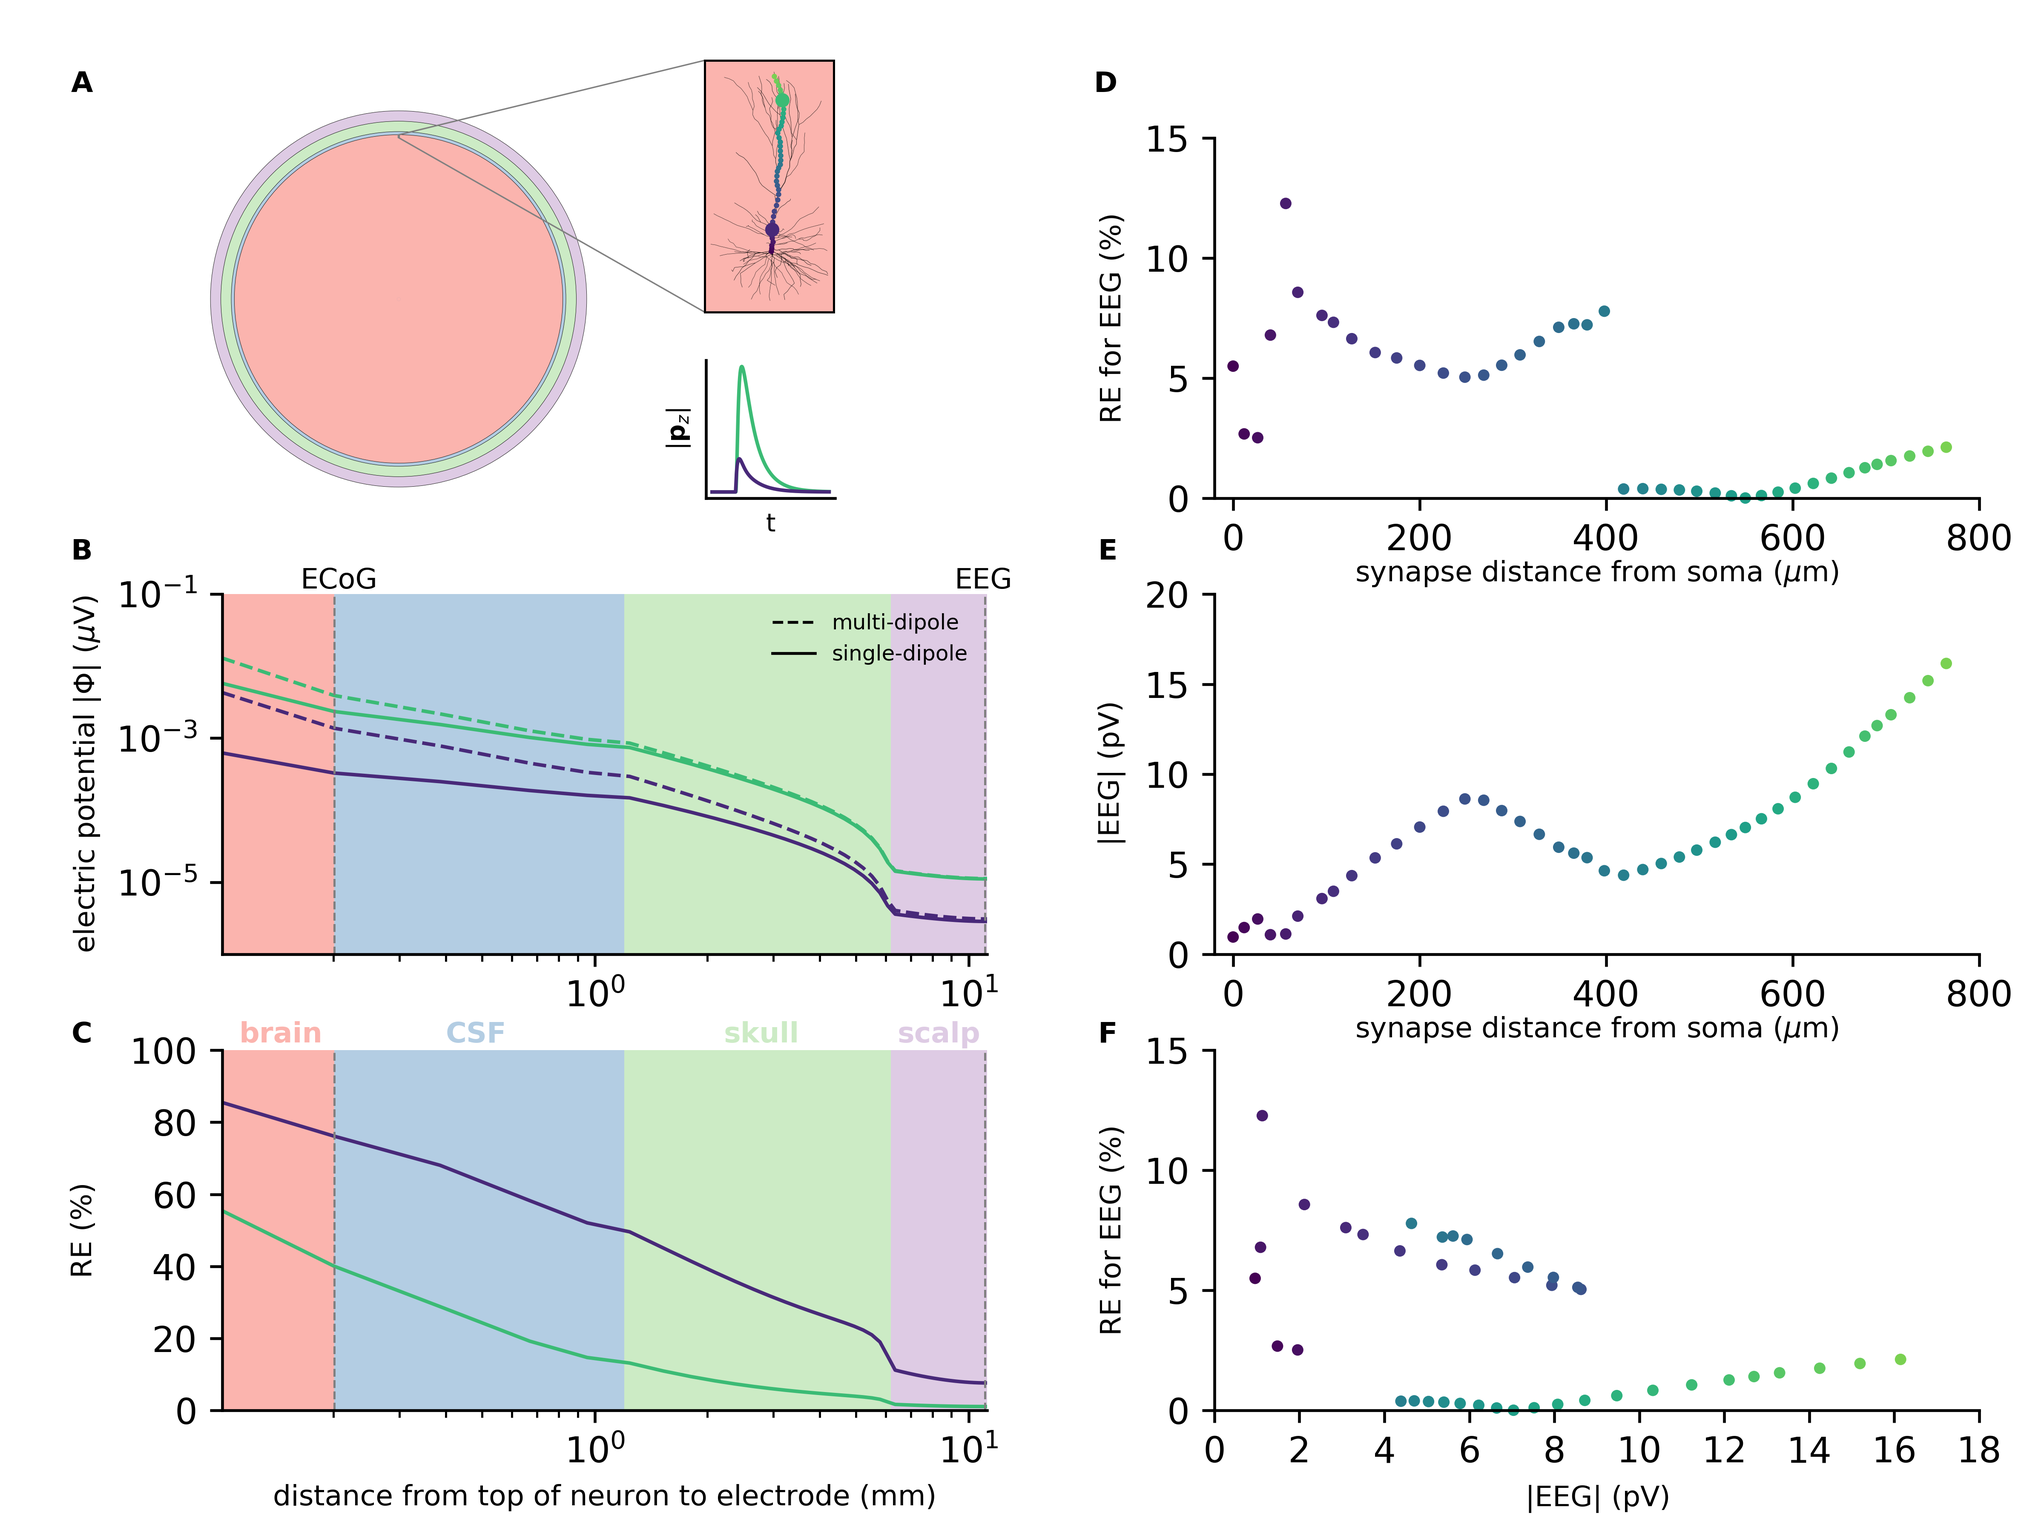
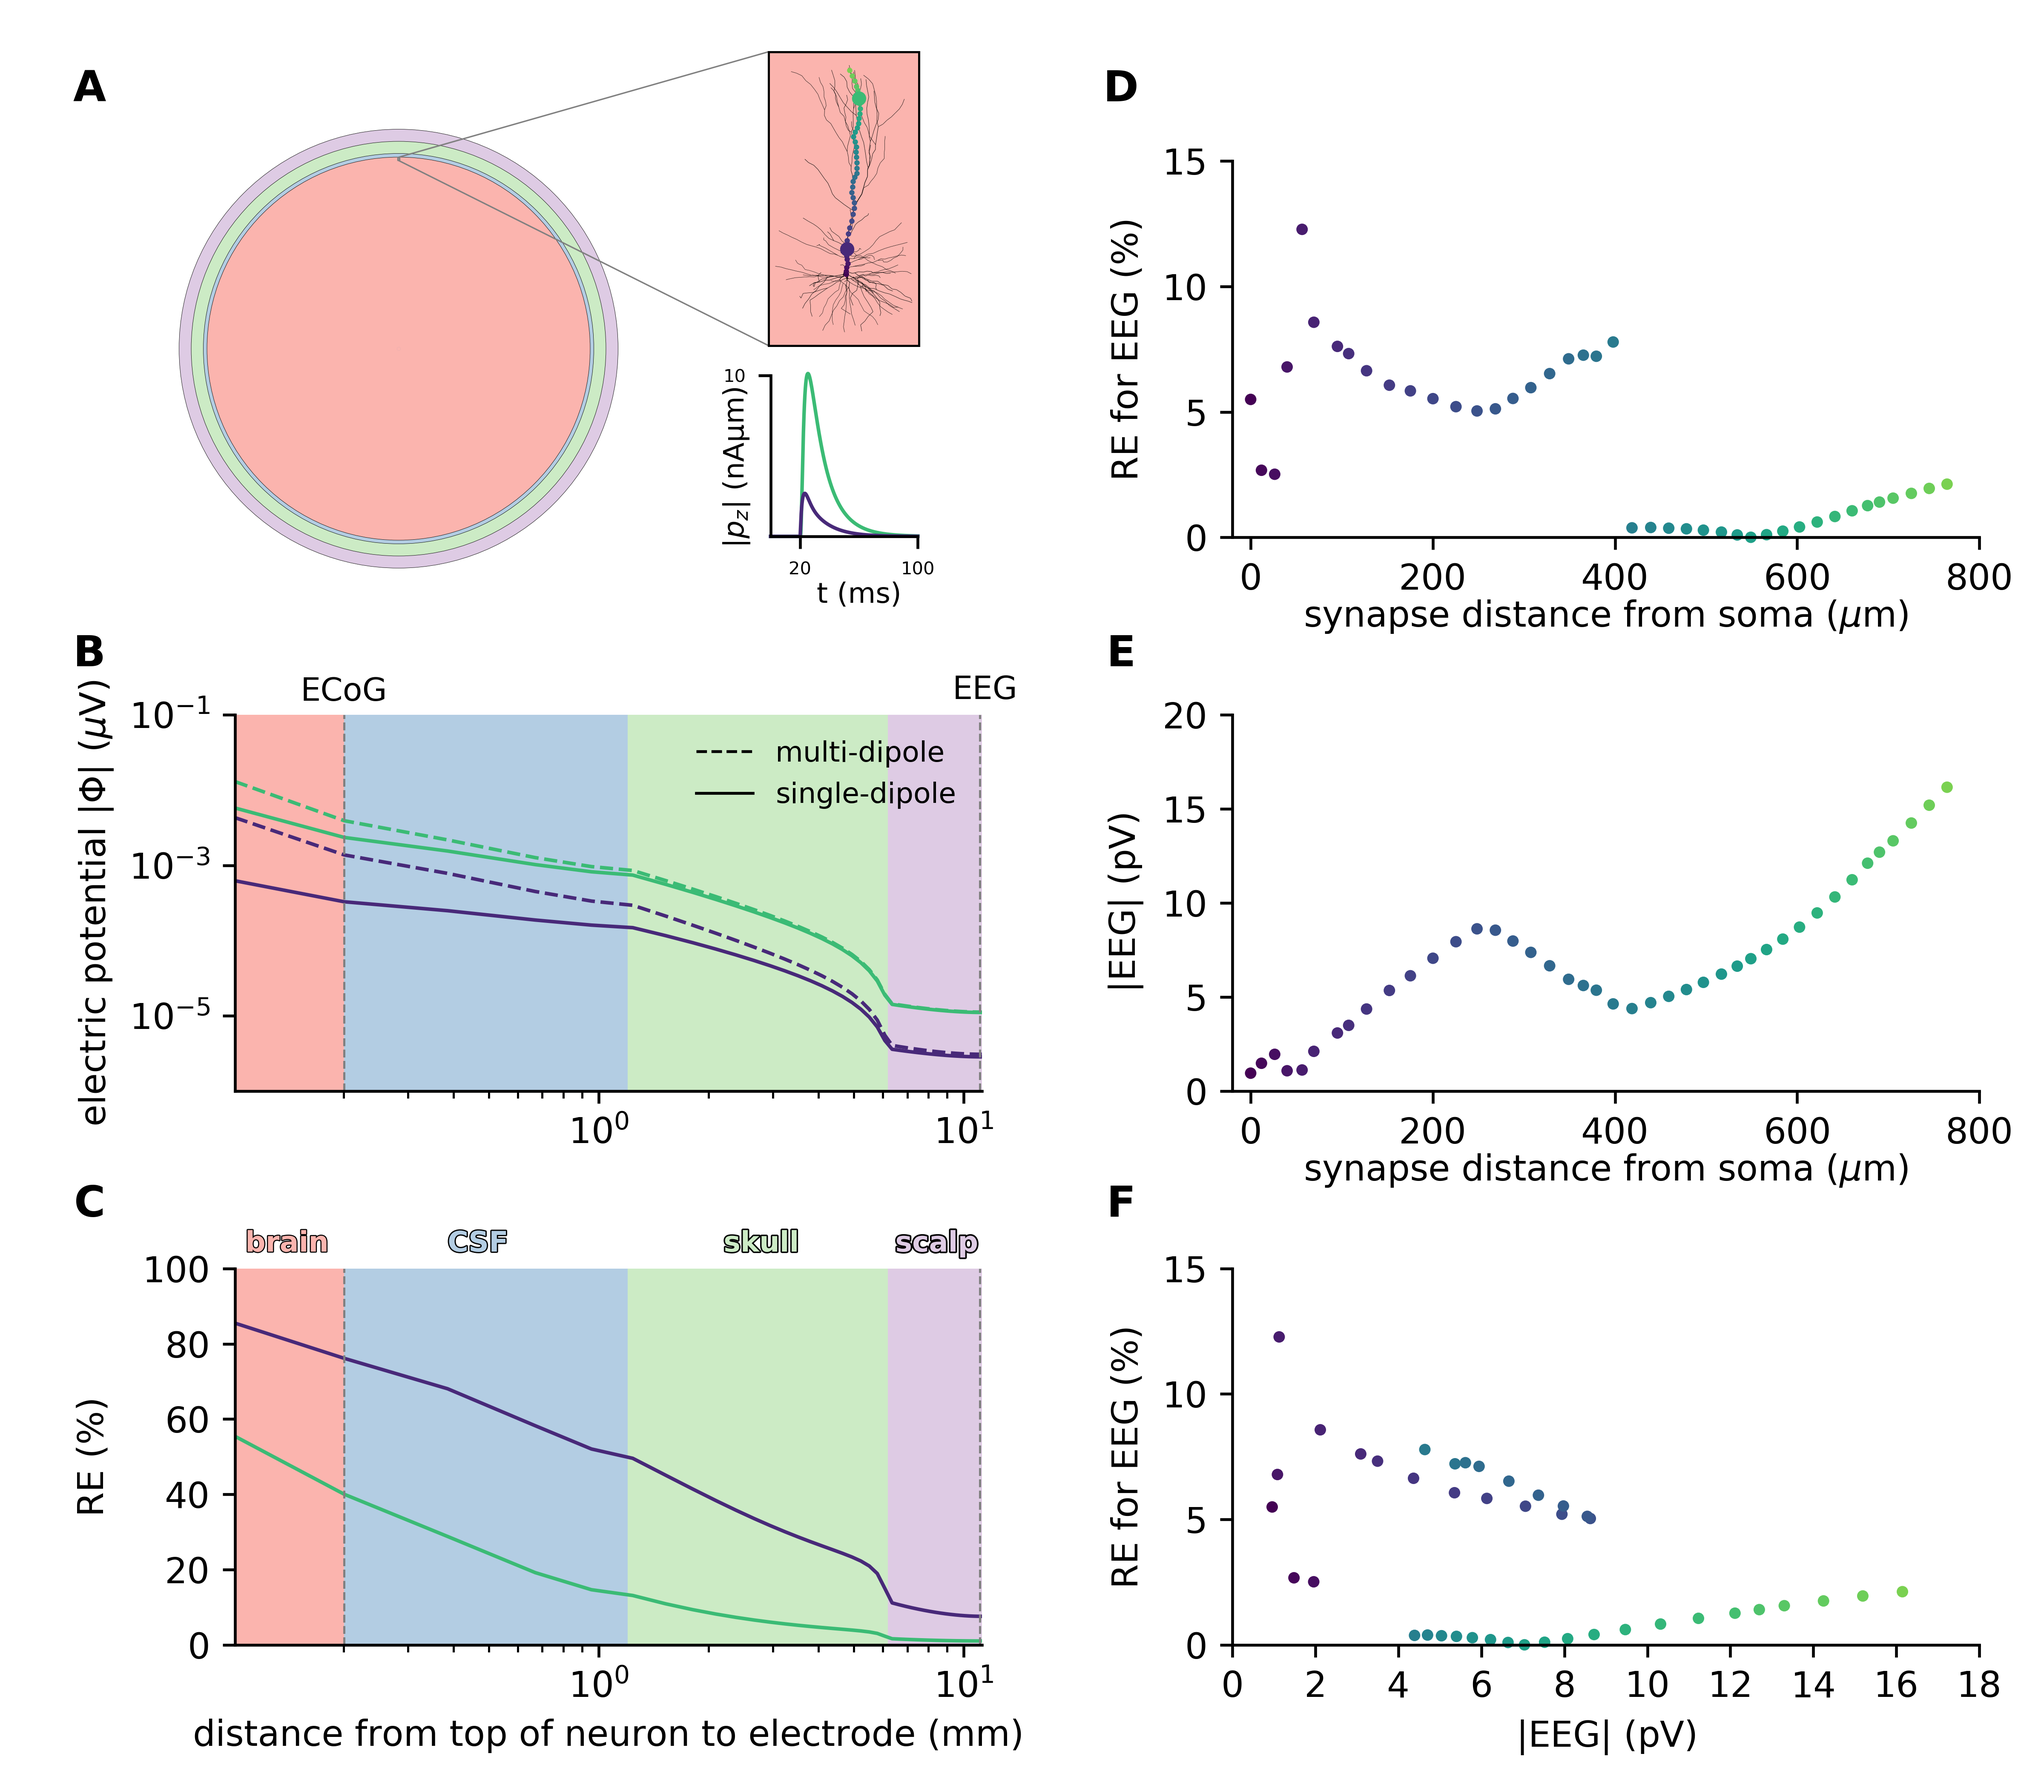
updates fig2

diff --git a/src/plot_figure2.py b/src/plot_figure2.py
@@ -5,7 +5,7 @@ from matplotlib import colorbar
 from matplotlib.collections import PolyCollection
 from mpl_toolkits.axes_grid1.inset_locator import zoomed_inset_axes
 from mpl_toolkits.axes_grid1.inset_locator import mark_inset
-
+import matplotlib.patheffects as path_effects
 
 
 def plot_neuron(axis, zips = None, cell=None, syn=False, lengthbar=False):
@@ -78,7 +78,7 @@ if __name__ == '__main__':
     # define axes
     # ax_setup = plt.subplot2grid((3,4),(0,0), colspan=2)
     ax_setup = fig.add_axes([0.07, 0.67, 0.25, 0.27])
-    ax_cdm = fig.add_axes([0.3455, 0.675, 0.063, 0.09])
+    ax_cdm = fig.add_axes([0.377, 0.7, 0.072, 0.09])
     ax_pot = plt.subplot2grid((3,4),(1,0), colspan=2)
     ax_pot_RE = plt.subplot2grid((3,4),(2,0), colspan=2)
     ax_RE_EEG = plt.subplot2grid((3,4),(0,2), colspan=2)
@@ -94,21 +94,21 @@ if __name__ == '__main__':
 
     # plot EEG amplitude as function of synapse distance from soma
     ax_EEG.scatter(syn_loc_zs, np.abs(EEG), s = 5., c = clrs)
-    ax_EEG.set_xlabel(r'synapse distance from soma ($\mu$m)', fontsize=8, labelpad=0.5)
-    ax_EEG.set_ylabel(r'$|$EEG$|$ (pV)', fontsize=8, labelpad=5)
+    ax_EEG.set_xlabel(r'synapse distance from soma ($\mu$m)', fontsize=10, labelpad=0.5)
+    ax_EEG.set_ylabel(r'$|$EEG$|$ (pV)', fontsize=10, labelpad=5)
     # ax_p.set_xticklabels([])
 
     # plot RE at EEG distance as function of synapse distance from soma
     ax_RE_EEG.scatter(syn_loc_zs, RE_EEG, s = 5., c = clrs, clip_on=False)
-    ax_RE_EEG.set_xlabel(r'synapse distance from soma ($\mu$m)', fontsize=8, labelpad=0.5)
-    ax_RE_EEG.set_ylabel(r'RE for EEG (%)', fontsize=8, labelpad=5)
+    ax_RE_EEG.set_xlabel(r'synapse distance from soma ($\mu$m)', fontsize=10, labelpad=0.5)
+    ax_RE_EEG.set_ylabel(r'RE for EEG (%)', fontsize=10, labelpad=5)
 
     # plot RE at EEG distance as function of dipole strength
     # ax_RE_EEG_p.plot(np.arange(16), np.ones(16)*RE_EEG_30syns, 'k--', label="all synapses active simultaneously")
     # ax_RE_EEG_p.scatter(dip_strength, RE_EEG, s = 5., c = clrs)
     ax_RE_EEG_EEG.scatter(np.abs(EEG), RE_EEG, s = 5., c = clrs, clip_on=False)
-    ax_RE_EEG_EEG.set_xlabel(r'$|$EEG$|$ (pV)', fontsize=8)
-    ax_RE_EEG_EEG.set_ylabel(r'RE for EEG (%)', fontsize=8, labelpad=5)
+    ax_RE_EEG_EEG.set_xlabel(r'$|$EEG$|$ (pV)', fontsize=10)
+    ax_RE_EEG_EEG.set_ylabel(r'RE for EEG (%)', fontsize=10, labelpad=5)
     # ax_RE_EEG_p.legend(loc=1, fontsize=6, frameon=False)
 
 
@@ -128,7 +128,7 @@ if __name__ == '__main__':
     plot_neuron(ax_setup, zips=zips)
     ax_setup.plot(0,0,'o', ms = 1e-4)
     # zoom in on neuron:
-    zoom_ax = zoomed_inset_axes(ax_setup, 110, bbox_to_anchor=(2000, 3500)) # zoom = 6
+    zoom_ax = zoomed_inset_axes(ax_setup, 110, bbox_to_anchor=(2200, 4120)) # zoom = 6
     x1, x2, y1, y2 = -1000, 1000, 76000, 79200
     zoom_ax.set_facecolor(head_colors[0])
     zoom_ax.set_xlim(x1, x2)
@@ -147,19 +147,24 @@ if __name__ == '__main__':
     syns_to_plot = np.array([-7, 6])
 
     # plot p(t) mini panel
+    # k_nA_to_pA = 1e3
     for i in syns_to_plot:
-        ax_cdm.plot(tvec, np.abs(Pz_traces[i]), c = clrs[i], lw=1)
+        ax_cdm.plot(tvec, np.abs(Pz_traces[i]), c = clrs[i], lw=1, clip_on=False)
     # ax_cdm.axvline(np.argmax(P_25), ls='--', c='gray')
-    ax_cdm.set_ylabel(r'$|\mathbf{p}_z|$', fontsize = 'x-small')
+    ax_cdm.set_ylabel(r'$|p_z|$ (nAµm)', fontsize = 8)
     # fig.text(0.47, 0.76,'$t$', fontsize = 'xx-small')
     ax_cdm.spines['top'].set_visible(False)
     ax_cdm.spines['right'].set_visible(False)
     ax_cdm.get_xaxis().tick_bottom()
-    ax_cdm.set_xticks([])
-    # ax_cdm.set_xticklabels([r'$t_{p max}$'], fontsize = 'xx-small')
-    ax_cdm.set_xlabel('t', fontsize='x-small')
-    ax_cdm.set_yticks([])
-    ax_cdm.set_yticklabels([])
+    ax_cdm.set_xticks([20, 100])
+    ax_cdm.set_xticklabels([20, 100], fontsize=5)
+    ax_cdm.set_xlim([0,100])
+    ax_cdm.set_xlabel('t (ms)', fontsize=8)
+    ax_cdm.xaxis.set_label_coords(.6, -.28)
+    ax_cdm.set_yticks([10.])
+    ax_cdm.set_yticklabels(['10'], fontsize=5)
+    ax_cdm.set_ylim([0,10])
+    ax_cdm.yaxis.set_label_coords(-.13, .43)
     # ax_cdm.annotate('', xy = (0,1), xycoords=('data', 'axes fraction'),
     #                 textcoords='offset points',
     #                 arrowprops=dict(arrowstyle='<-', facecolor='black'))
@@ -200,7 +205,7 @@ if __name__ == '__main__':
         zoom_ax.plot(synlocs[i][0], synlocs[i][2], 'o', color=clrs[i], ms = 3)
     ax_pot.plot(100, 0, 'k--', label='multi-dipole', lw=0.8)
     ax_pot.plot(100, 0, 'k-', label='single-dipole', lw=0.8)
-    ax_pot.legend(loc=1, fontsize=6, frameon=False)
+    ax_pot.legend(loc=1, fontsize=8, frameon=False)
 
 
     # fix axes
@@ -218,18 +223,28 @@ if __name__ == '__main__':
     ax_pot.set_ylim([1e-6, 1e-1])
     ax_pot.set_yticks([1e-5, 1e-3, 1e-1])
     ax_pot_RE.set_ylim([0, 100])
-    ax_pot.set_ylabel(r'electric potential $|\Phi|$ ($\mu$V)', fontsize=8)
-    ax_pot_RE.set_ylabel(r'RE (%)', fontsize=8, labelpad=9)
-    ax_pot_RE.set_xlabel(r'distance from top of neuron to electrode (mm)', fontsize=8)
+    ax_pot.set_ylabel(r'electric potential $|\Phi|$ ($\mu$V)', fontsize=10)
+    ax_pot_RE.set_ylabel(r'RE (%)', fontsize=10, labelpad=9)
+    ax_pot_RE.set_xlabel(r'distance from top of neuron to electrode (mm)', fontsize=10)
     # mark ECoG and EEG locations
-    plt.text(0.147, 0.616, 'ECoG', fontsize=8, transform=plt.gcf().transFigure)
-    plt.text(0.467, 0.616, 'EEG', fontsize=8, transform=plt.gcf().transFigure)
+    plt.text(0.147, 0.608, 'ECoG', fontsize=9, transform=plt.gcf().transFigure)
+    plt.text(0.466, 0.609, 'EEG', fontsize=9, transform=plt.gcf().transFigure)
 
     # mark 4-sphere head model layers
-    plt.text(0.117, 0.32, 'brain', fontweight='bold', fontsize=8, transform=plt.gcf().transFigure, color=head_colors[0])
-    plt.text(0.218, 0.32, 'CSF', fontweight='bold', fontsize=8, transform=plt.gcf().transFigure, color=head_colors[1])
-    plt.text(0.354, 0.32, 'skull', fontweight='bold', fontsize=8, transform=plt.gcf().transFigure, color=head_colors[2])
-    plt.text(0.439, 0.32, 'scalp', fontweight='bold', fontsize=8, transform=plt.gcf().transFigure, color=head_colors[3])
+    txt_brain = plt.text(0.12, 0.3, 'brain', fontweight='bold', fontsize=8, transform=plt.gcf().transFigure, color=head_colors[0])
+    txt_brain.set_path_effects([path_effects.Stroke(linewidth=.6, foreground='black'), path_effects.Normal()])
+    txt_csf = plt.text(0.219, 0.3, 'CSF', fontweight='bold', fontsize=8, transform=plt.gcf().transFigure, color=head_colors[1])
+    txt_csf.set_path_effects([path_effects.Stroke(linewidth=.7, foreground='black'), path_effects.Normal()])
+    txt_skull = plt.text(0.354, 0.3, 'skull', fontweight='bold', fontsize=8, transform=plt.gcf().transFigure, color=head_colors[2])
+    txt_skull.set_path_effects([path_effects.Stroke(linewidth=.8, foreground='black'), path_effects.Normal()])
+    txt_scalp = plt.text(0.438, 0.3, 'scalp', fontweight='bold', fontsize=8, transform=plt.gcf().transFigure, color=head_colors[3])
+    txt_scalp.set_path_effects([path_effects.Stroke(linewidth=.9, foreground='black'), path_effects.Normal()])
+    # plt.text(0.117, 0.27, 'brain', fontsize=8, transform=plt.gcf().transFigure, color='k')#head_colors[0])
+    # plt.text(0.218, 0.27, 'CSF', fontsize=8, transform=plt.gcf().transFigure, color='k')#head_colors[1])
+    # plt.text(0.354, 0.27, 'skull', fontsize=8, transform=plt.gcf().transFigure, color='k')#head_colors[2])
+    # plt.text(0.439, 0.27, 'scalp', fontsize=8, transform=plt.gcf().transFigure, color='k')#head_colors[3])
+
+
 
     for ax in [ax_EEG, ax_RE_EEG]:
         ax.set_xlim([-20, 800])
@@ -259,21 +274,21 @@ if __name__ == '__main__':
         ax.spines['right'].set_visible(False)
         ax.spines['top'].set_visible(False)
 
-    fig.tight_layout(pad=0.5, h_pad=-.9, w_pad=1.1)
-    fig.set_size_inches(8., 6.)
+    fig.tight_layout(pad=0.5, h_pad=.1, w_pad=-1.)
+    fig.set_size_inches(8., 7.)
     fig.subplots_adjust(bottom=.08, top=.91)
     # plotting_convention.mark_subplots(fig.axes[:-1], xpos=-0.25)
 
     # label axes
-    xpos = [0.04, 0.04, 0.04, 0.541, 0.542, 0.542]
-    ypos = [0.945, 0.64, 0.325, 0.945, 0.64, 0.325]
+    xpos = [0.0438, 0.0438, 0.0438, 0.5485, 0.5485, 0.5485]
+    ypos = [0.95, 0.634, 0.326, 0.95, 0.634, 0.326]
     letters = 'ABCDEF'
     for i in range(len(letters)):
         fig.text(xpos[i], ypos[i], letters[i],
              horizontalalignment='center',
              verticalalignment='center',
              fontweight='demibold',
-             fontsize=8)
+             fontsize=12)
 
     # plt.savefig('./figures/figure2_passiveTrue_Hay.png', dpi=600)
     # plt.savefig('./figures/figure2_passiveTrue_segev_new_diploc.png', dpi=600)
